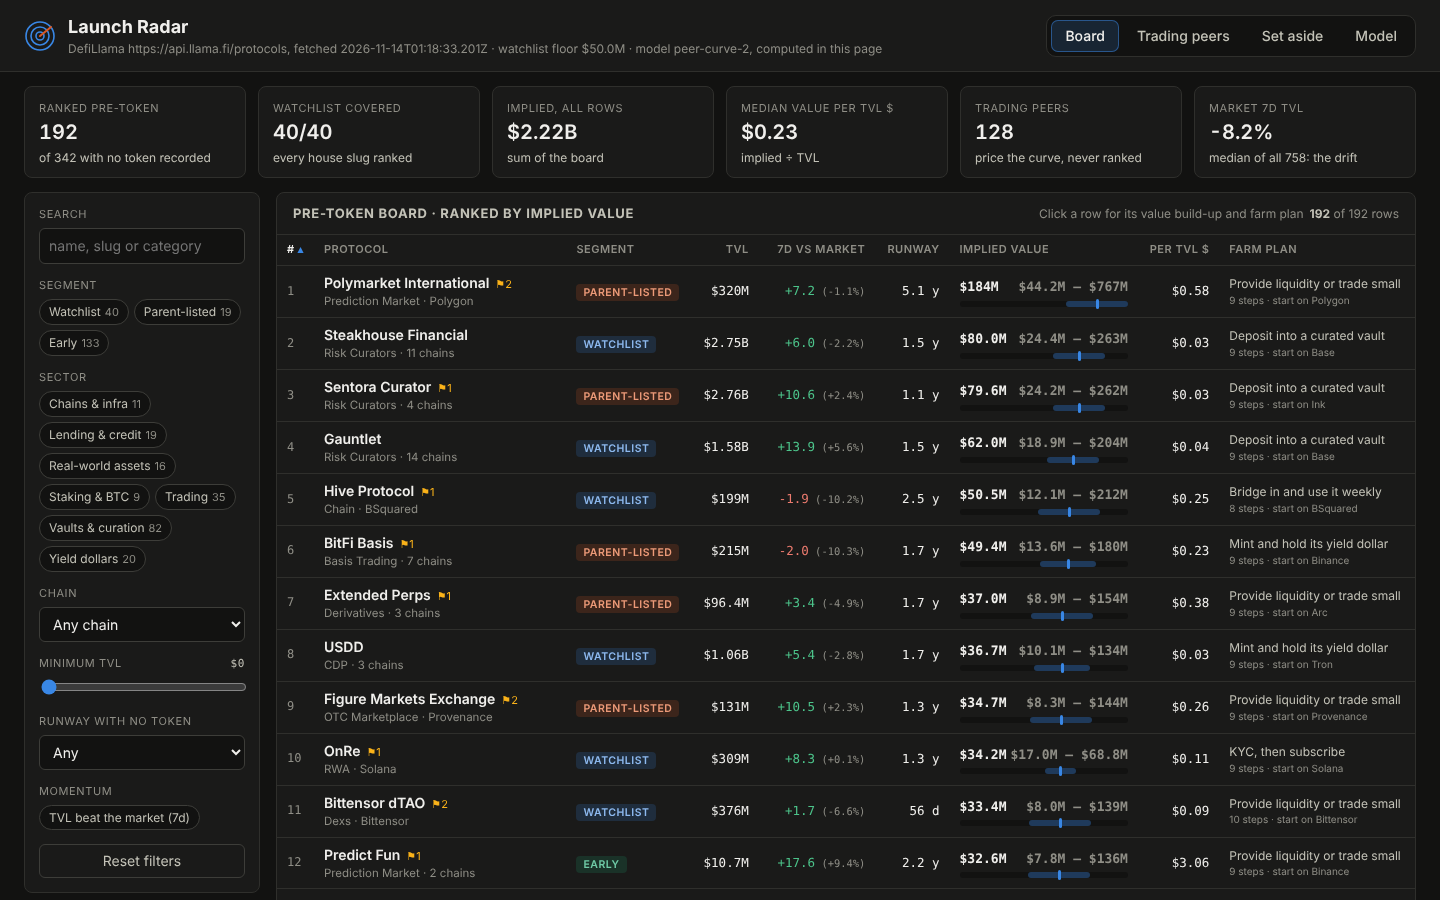
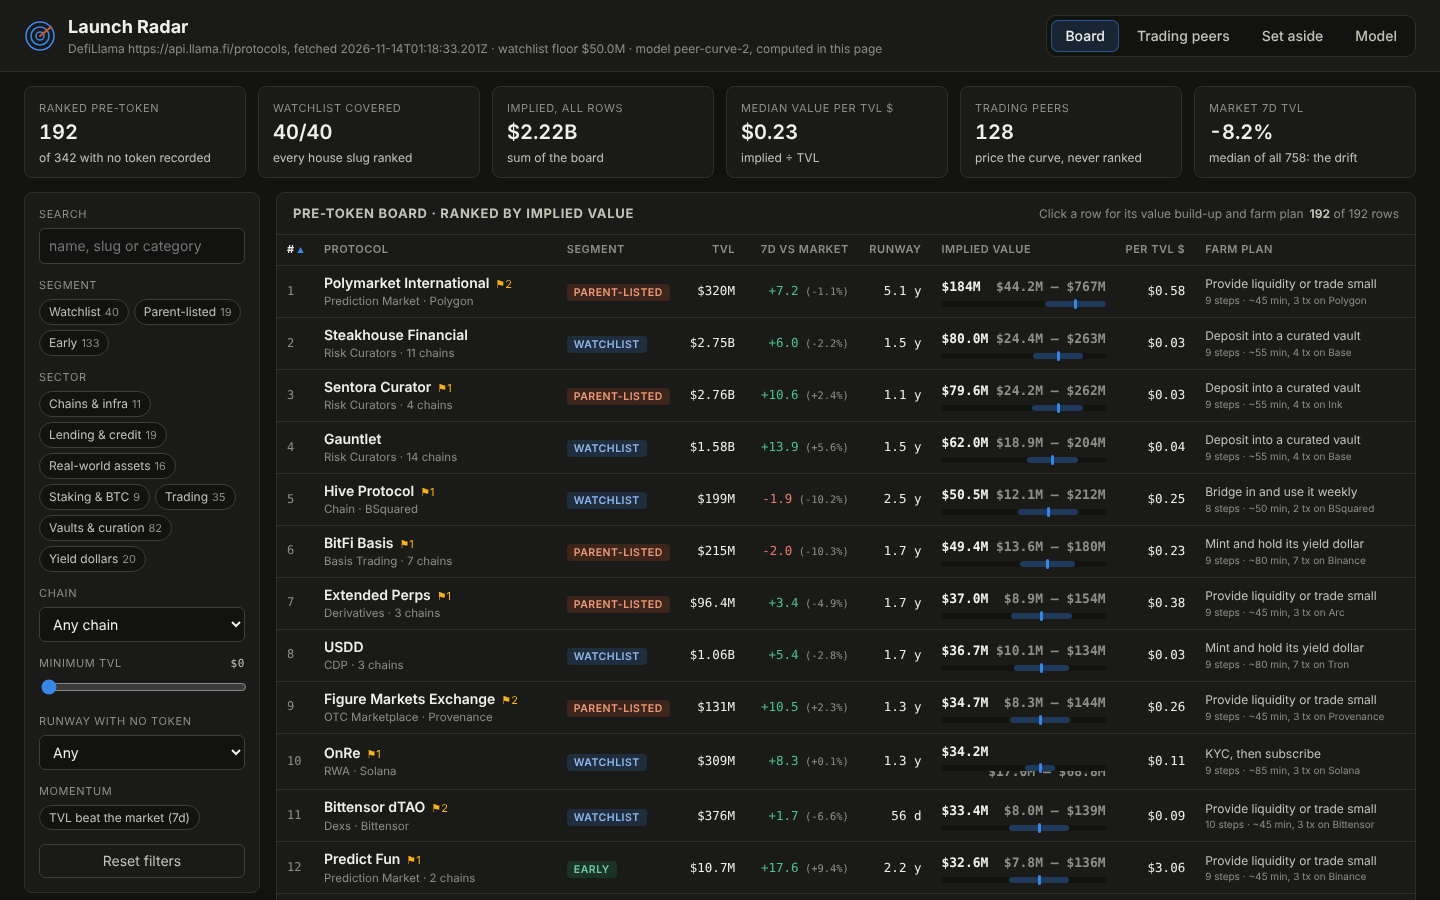
Farm plans carry minutes, transactions and weekly time per step; totals on board and detail
Claude-Session: https://claude.ai/code/session_013aFgNu4RH3Zs2ifyKcjnFN

diff --git a/dashboard/engine.js b/dashboard/engine.js
@@ -144,40 +144,42 @@
   const usd = (n) => (n >= 1e9 ? '$' + (n / 1e9).toFixed(2) + 'B' : n >= 1e6 ? '$' + (n / 1e6).toFixed(n >= 1e8 ? 0 : 1) + 'M' : n >= 1e3 ? '$' + (n / 1e3).toFixed(0) + 'K' : '$' + Math.round(n));
   const pct = (x) => x.toFixed(Math.max(2, 1 - Math.floor(Math.log10(x)))) + '%';
   const gas = (c) => (c === 'Ethereum' ? 'Ethereum mainnet gas (the costliest tier)' : c === 'Bitcoin' ? 'a Bitcoin on-chain fee (varies with mempool load)' : `${c} gas (a low-fee chain)`);
-  const step = (d, cost, time) => ({ do: d, cost, time });
+  // Each step also carries its numbers: minutes to do once, on-chain transactions, minutes a week after.
+  const step = (d, cost, time, min = 0, tx = 0, weekly = 0) => ({ do: d, cost, time, min, tx, weekly });
+  const planTotals = (plan) => plan.reduce((t, s) => ({ min: t.min + s.min, tx: t.tx + s.tx, weekly: t.weekly + s.weekly }), { min: 0, tx: 0, weekly: 0 });
 
   function coreSteps(p, sector, ch) {
     const g = gas(ch), n = p.name;
     switch (sector) {
       case 'Vaults & curation': return [
-        step(`Pick one ${n} vault on ${ch} whose deposit asset you already hold (a stablecoin or ETH-type asset). Read its strategy page: which markets it allocates to, its fee, and whether withdrawals are instant or queued.`, 'free (reading)', '~15 min'),
-        step('Deposit into that vault: approve the asset, then deposit. Start with a test amount, withdraw it once to confirm the exit path works, then deposit the size you chose.', `${g}: 2 transactions to enter, 1 to test the exit`, '~10 min'),
-        step('Check the vault\'s allocation weekly: a curator moves deposits between markets, so the risk you hold changes without a transaction of yours.', 'free', '~5 min a week')];
+        step(`Pick one ${n} vault on ${ch} whose deposit asset you already hold (a stablecoin or ETH-type asset). Read its strategy page: which markets it allocates to, its fee, and whether withdrawals are instant or queued.`, 'free (reading)', '~15 min', 15, 0, 0),
+        step('Deposit into that vault: approve the asset, then deposit. Start with a test amount, withdraw it once to confirm the exit path works, then deposit the size you chose.', `${g}: 2 transactions to enter, 1 to test the exit`, '~10 min', 10, 3, 0),
+        step('Check the vault\'s allocation weekly: a curator moves deposits between markets, so the risk you hold changes without a transaction of yours.', 'free', '~5 min a week', 0, 0, 5)];
       case 'Yield dollars': return [
-        step(`Get the stablecoin ${n} accepts for minting or depositing on ${ch} (its docs list them) and read how redemption works: instant, queued or with a cooldown.`, `a swap fee if you must convert, plus ${g}`, '~15 min'),
-        step(`Mint or deposit into ${n}'s yield-bearing dollar with a test amount, redeem it back once, then deposit your chosen size and keep the receipt token in the same wallet.`, `${g}: about 4 transactions (approve, mint, redeem test, mint)`, '~20 min'),
-        step('If the app lists integrations (lending markets or pools that accept its dollar), use at most one, and only after reading that integration\'s own risk notes.', `${g} per integration step`, '~15 min')];
+        step(`Get the stablecoin ${n} accepts for minting or depositing on ${ch} (its docs list them) and read how redemption works: instant, queued or with a cooldown.`, `a swap fee if you must convert, plus ${g}`, '~15 min', 15, 1, 0),
+        step(`Mint or deposit into ${n}'s yield-bearing dollar with a test amount, redeem it back once, then deposit your chosen size and keep the receipt token in the same wallet.`, `${g}: about 4 transactions (approve, mint, redeem test, mint)`, '~20 min', 20, 4, 0),
+        step('If the app lists integrations (lending markets or pools that accept its dollar), use at most one, and only after reading that integration\'s own risk notes.', `${g} per integration step`, '~15 min', 15, 1, 0)];
       case 'Lending & credit': return [
-        step(`Supply a major asset (a stablecoin or ETH-type asset) to ${n} on ${ch}. Supplying alone carries no liquidation risk on your side; check the market's utilisation before you size it.`, `${g}: approve + supply`, '~10 min'),
-        step('Optionally borrow a small amount against it and keep the loan-to-value far below the liquidation threshold the app shows (a quarter of it is a cautious level). Lending point schemes often count both sides, but a borrow can be liquidated.', `${g}: 1 borrow; interest on the loan`, '~5 min, then a daily glance'),
-        step('Set a price alert on your collateral, or skip borrowing entirely if you cannot watch it.', 'free', '~5 min')];
+        step(`Supply a major asset (a stablecoin or ETH-type asset) to ${n} on ${ch}. Supplying alone carries no liquidation risk on your side; check the market's utilisation before you size it.`, `${g}: approve + supply`, '~10 min', 10, 2, 0),
+        step('Optionally borrow a small amount against it and keep the loan-to-value far below the liquidation threshold the app shows (a quarter of it is a cautious level). Lending point schemes often count both sides, but a borrow can be liquidated.', `${g}: 1 borrow; interest on the loan`, '~5 min, then a daily glance', 5, 1, 0),
+        step('Set a price alert on your collateral, or skip borrowing entirely if you cannot watch it.', 'free', '~5 min', 5, 0, 0)];
       case 'Trading': return [
-        step(`Fund ${n} on ${ch} with a small trading balance. If it is an exchange of pools, add liquidity to its deepest major pair instead of trading: fees accrue to you while you hold the position.`, `${g}: deposit or add-liquidity transactions; impermanent loss on a pool`, '~15 min'),
-        step('If you trade, keep leverage at 2x or less and trade only pairs you would trade anyway: volume-based points rarely pay for fees and slippage on forced trades.', 'trading fees and slippage on each trade', 'a few trades a week'),
-        step('Keep a fee log (date, size, fee) so you can compare what farming costs with anything it later earns.', 'free', '~5 min a week')];
+        step(`Fund ${n} on ${ch} with a small trading balance. If it is an exchange of pools, add liquidity to its deepest major pair instead of trading: fees accrue to you while you hold the position.`, `${g}: deposit or add-liquidity transactions; impermanent loss on a pool`, '~15 min', 15, 2, 0),
+        step('If you trade, keep leverage at 2x or less and trade only pairs you would trade anyway: volume-based points rarely pay for fees and slippage on forced trades.', 'trading fees and slippage on each trade', 'a few trades a week', 0, 0, 15),
+        step('Keep a fee log (date, size, fee) so you can compare what farming costs with anything it later earns.', 'free', '~5 min a week', 0, 0, 5)];
       case 'Real-world assets': return [
-        step(`Check eligibility first: real-world-asset products often require identity checks (KYC), a jurisdiction list and a minimum ticket. Read ${n}'s terms before moving funds.`, 'free; your identity documents if KYC applies', '~30 min, plus any review time'),
-        step(`Subscribe with a test amount on ${ch}, note the redemption schedule (daily, weekly or monthly windows are common), then subscribe your chosen size.`, `${g}; any subscription fee the terms state`, '~20 min'),
-        step('Diarise the next redemption window: capital in an RWA product can be slower to exit than a DeFi pool.', 'free', '~5 min')];
+        step(`Check eligibility first: real-world-asset products often require identity checks (KYC), a jurisdiction list and a minimum ticket. Read ${n}'s terms before moving funds.`, 'free; your identity documents if KYC applies', '~30 min, plus any review time', 30, 0, 0),
+        step(`Subscribe with a test amount on ${ch}, note the redemption schedule (daily, weekly or monthly windows are common), then subscribe your chosen size.`, `${g}; any subscription fee the terms state`, '~20 min', 20, 2, 0),
+        step('Diarise the next redemption window: capital in an RWA product can be slower to exit than a DeFi pool.', 'free', '~5 min', 5, 0, 0)];
       case 'Staking & BTC': return [
-        step(`Stake or deposit the asset ${n} supports on ${ch}. Read the unbonding or withdrawal delay before you deposit: it is how long your capital is locked when you want out.`, `${g}: approve + stake`, '~10 min, plus the unbonding delay to exit'),
-        step('Keep the receipt token in the same wallet; moving it elsewhere can drop you from any points tracking.', 'free', '~2 min')];
+        step(`Stake or deposit the asset ${n} supports on ${ch}. Read the unbonding or withdrawal delay before you deposit: it is how long your capital is locked when you want out.`, `${g}: approve + stake`, '~10 min, plus the unbonding delay to exit', 10, 2, 0),
+        step('Keep the receipt token in the same wallet; moving it elsewhere can drop you from any points tracking.', 'free', '~2 min', 2, 0, 0)];
       case 'Chains & infra': return [
-        step(`Bridge a small balance to ${ch} through the official bridge its docs name, and keep enough of the native gas token for a few weeks of activity.`, `bridge fee plus ${g}`, '~20 min (bridges can take longer to settle)'),
-        step(`Use ${n} for what it is built for (payments, transfers or the apps on it), spread over several weeks rather than one burst: networks tend to look at sustained use, not a single day.`, `${g} per transaction`, '~10 min a week')];
+        step(`Bridge a small balance to ${ch} through the official bridge its docs name, and keep enough of the native gas token for a few weeks of activity.`, `bridge fee plus ${g}`, '~20 min (bridges can take longer to settle)', 20, 1, 0),
+        step(`Use ${n} for what it is built for (payments, transfers or the apps on it), spread over several weeks rather than one burst: networks tend to look at sustained use, not a single day.`, `${g} per transaction`, '~10 min a week', 0, 0, 10)];
       default: return [
-        step(`Read ${n}'s documentation to find its core action (deposit, stake, trade or use), do it once with a test amount on ${ch}, and exit once to prove the way out.`, `${g}: about 3 transactions`, '~20 min'),
-        step('Repeat the core action with your chosen size and keep the position in one wallet.', g, '~10 min')];
+        step(`Read ${n}'s documentation to find its core action (deposit, stake, trade or use), do it once with a test amount on ${ch}, and exit once to prove the way out.`, `${g}: about 3 transactions`, '~20 min', 20, 3, 0),
+        step('Repeat the core action with your chosen size and keep the position in one wallet.', g, '~10 min', 10, 1, 0)];
     }
   }
 
@@ -186,16 +188,16 @@
     const list = p.chains.length > 3 ? `${p.chains.slice(0, 3).join(', ')} and ${p.chains.length - 3} more` : p.chains.join(', ');
     const d7 = p.change_7d === null ? 'by an unreported amount' : (p.change_7d >= 0 ? '+' : '') + p.change_7d.toFixed(1) + '%';
     const plan = [
-      step(`Find ${p.name}'s official app through its DefiLlama listing (slug ${p.slug}) and confirm the domain on the team's own announcement channel before connecting a wallet. Never follow links from replies or DMs.`, 'free', '~10 min'),
-      step(`Use a dedicated wallet that holds only what you plan to deposit. ${p.name} is listed on ${list}; start on ${ch}${p.chains.length > 1 ? ' unless the product you want lives only elsewhere' : ''}.`, `${p.chains.length > 1 ? 'one transfer or bridge' : 'one transfer'} to ${ch} plus ${gas(ch)}`, '~10 min'),
-      step(`Size the position from the snapshot: TVL is ${usd(p.tvl_usd)}, so $1,000 is ${pct((1e3 / p.tvl_usd) * 100)} of the pool and $10,000 is ${pct((1e4 / p.tvl_usd) * 100)}. Choose an amount you can afford to lose entirely.`, 'free (arithmetic)', '~5 min'),
+      step(`Find ${p.name}'s official app through its DefiLlama listing (slug ${p.slug}) and confirm the domain on the team's own announcement channel before connecting a wallet. Never follow links from replies or DMs.`, 'free', '~10 min', 10, 0, 0),
+      step(`Use a dedicated wallet that holds only what you plan to deposit. ${p.name} is listed on ${list}; start on ${ch}${p.chains.length > 1 ? ' unless the product you want lives only elsewhere' : ''}.`, `${p.chains.length > 1 ? 'one transfer or bridge' : 'one transfer'} to ${ch} plus ${gas(ch)}`, '~10 min', 10, 1, 0),
+      step(`Size the position from the snapshot: TVL is ${usd(p.tvl_usd)}, so $1,000 is ${pct((1e3 / p.tvl_usd) * 100)} of the pool and $10,000 is ${pct((1e4 / p.tvl_usd) * 100)}. Choose an amount you can afford to lose entirely.`, 'free (arithmetic)', '~5 min', 5, 0, 0),
       ...coreSteps(p, sector, ch),
-      step(`Log every deposit (date, amount, transaction hash) and check the app for a points or rewards page. Hold for weeks, not days: programs that reward deposits usually weight time as well as size.`, `opportunity cost of the capital while it sits in ${p.name}`, '~5 min a week, for 4 weeks or more'),
-      step(`Set an exit rule now: its TVL moved ${d7} in the snapshot week against a market median of ${market.toFixed(1)}%. Withdraw if TVL falls sharply in a week, the terms change, or an exploit is reported.`, `${gas(ch)} for the withdrawal`, '~5 min'),
-      step('If a token is ever announced, claim only through the official app, read every signature request, and decide your sell-or-hold rule before claiming. Nothing here says a token will launch.', `${gas(ch)} for the claim`, '~10 min'),
+      step(`Log every deposit (date, amount, transaction hash) and check the app for a points or rewards page. Hold for weeks, not days: programs that reward deposits usually weight time as well as size.`, `opportunity cost of the capital while it sits in ${p.name}`, '~5 min a week, for 4 weeks or more', 0, 0, 5),
+      step(`Set an exit rule now: its TVL moved ${d7} in the snapshot week against a market median of ${market.toFixed(1)}%. Withdraw if TVL falls sharply in a week, the terms change, or an exploit is reported.`, `${gas(ch)} for the withdrawal`, '~5 min', 5, 0, 0),
+      step('If a token is ever announced, claim only through the official app, read every signature request, and decide your sell-or-hold rule before claiming. Nothing here says a token will launch.', `${gas(ch)} for the claim`, '~10 min', 0, 0, 0),
     ];
     if (v.runwayDays !== null && v.runwayDays < 120)
-      plan.splice(3, 0, step(`Its DefiLlama record is ${v.runwayDays} days old: young TVL can leave as fast as it came. Start smaller than on an older protocol and add only after a few weeks of stable TVL.`, 'free', 'decide now; revisit in 2 to 4 weeks'));
+      plan.splice(3, 0, step(`Its DefiLlama record is ${v.runwayDays} days old: young TVL can leave as fast as it came. Start smaller than on an older protocol and add only after a few weeks of stable TVL.`, 'free', 'decide now; revisit in 2 to 4 weeks', 0, 0, 0));
     return plan;
   }
   const stepText = (s) => `${s.do} Cost: ${s.cost}. Time: ${s.time}.`.slice(0, 600).trim();
@@ -246,7 +248,7 @@
     return { M, fit, rows, excluded, peers: fit.peers };
   }
 
-  const api = { MODEL, SECTORS, build, sectorOf, ruleExclusion, families, fitPeers, value, farmPlan, stepText, usd };
+  const api = { MODEL, SECTORS, build, planTotals, sectorOf, ruleExclusion, families, fitPeers, value, farmPlan, stepText, usd };
   if (typeof module === 'object' && module.exports) module.exports = api;
   else root.Radar = api;
 })(typeof globalThis === 'object' ? globalThis : this);

diff --git a/dashboard/app.js b/dashboard/app.js
@@ -28,6 +28,7 @@
   const seg = (s) => `<span class="seg ${s}" title="${esc(SEG_WHY[s])}">${SEG[s]}</span>`;
   const startOn = (r) => r.chains.find((c) => c !== 'Ethereum' && c !== 'Bitcoin') || r.chains[0];
   const count = (f) => ROWS.filter(f).length;
+  const tot = (r) => (r.tot ||= window.Radar.planTotals(r.plan));
 
   // ------------------------------------------------------------ header and KPIs
   const medPer = ROWS.map((r) => r.perTvl).sort((a, b) => a - b)[ROWS.length >> 1];
@@ -147,7 +148,7 @@
       <td class="r num">${ago(r.runwayDays)}</td>
       <td class="vcell"><span class="num">${usd(r.implied)}</span><small class="mut num">${usd(r.low)} – ${usd(r.high)}</small><div class="band"><i style="left:${pos(r.low)}%;width:${(pos(r.high) - pos(r.low)).toFixed(1)}%"></i><b style="left:calc(${pos(r.implied)}% - 1px)"></b></div></td>
       <td class="r num">$${r.perTvl.toFixed(2)}</td>
-      <td class="plan1">${CORE[r.sector]}<small>${r.plan.length} steps · start on ${esc(startOn(r))}</small></td></tr>`;
+      <td class="plan1">${CORE[r.sector]}<small>${r.plan.length} steps · ~${tot(r).min} min, ${tot(r).tx} tx on ${esc(startOn(r))}</small></td></tr>`;
   }
 
   // ------------------------------------------------------------ one protocol
@@ -179,7 +180,7 @@
         <section class="panel"><h2>Where it sits on the peer curve</h2>${scatter(r)}</section>
       </div>
       <div class="col">
-        <section class="panel"><h2>Farm plan · ${r.plan.length} steps, each with its cost and time</h2><div class="pad"><ol class="steps">${r.plan.map((s) => `<li><div><p>${esc(s.do)}</p><div class="meta"><span><b>Cost</b>${esc(s.cost)}</span><span><b>Time</b>${esc(s.time)}</span></div></div></li>`).join('')}</ol></div></section>
+        <section class="panel"><h2>Farm plan · ${r.plan.length} steps, each with its cost and time</h2><div class="totals"><div><b>~${tot(r).min} min</b><span>to set up, once</span></div><div><b>${tot(r).tx}</b><span>transactions on ${esc(startOn(r))}</span></div><div><b>~${tot(r).weekly} min</b><span>a week while you hold</span></div><div><b>${r.chains.length}</b><span>chain${r.chains.length > 1 ? 's' : ''} listed</span></div></div><div class="pad"><ol class="steps">${r.plan.map((s) => `<li><div><p>${esc(s.do)}</p><div class="meta"><span><b>Cost</b>${esc(s.cost)}</span><span><b>Time</b>${esc(s.time)}</span></div></div></li>`).join('')}</ol></div></section>
         <section class="panel"><h2>Flags from the snapshot</h2><div class="pad">${r.flags.length ? `<ul class="flags">${r.flags.map((f) => `<li>${esc(f)}</li>`).join('')}</ul>` : '<p class="mut">No flags: dated, reported and multi-chain.</p>'}${r.siblings.length ? `<p class="mut">Same-name protocols in the snapshot: ${r.siblings.map(esc).join(', ')}.</p>` : ''}</div></section>
         <section class="panel"><h2>Illustrative arithmetic</h2><div class="pad calc">
           <div><label class="mut" for="cd">Your deposit (USD)</label><input id="cd" type="number" min="0" step="100" value="1000"></div>

diff --git a/dashboard/app.css b/dashboard/app.css
@@ -121,6 +121,10 @@ tr.me td { background: rgba(250, 178, 25, 0.07); }
 .meta b { color: var(--muted); font-weight: 500; margin-right: 5px; }
 .flags { margin: 0 0 8px; padding-left: 18px; color: var(--text-2); }
 .note { font-size: 12px; color: var(--muted); border-left: 2px solid var(--warn); padding: 6px 10px; background: var(--bg); border-radius: 0 6px 6px 0; grid-column: 1 / -1; margin: 0; }
+.totals { display: grid; grid-template-columns: repeat(4, 1fr); gap: 1px; background: var(--line); border-bottom: 1px solid var(--line); }
+.totals div { background: var(--surface); padding: 8px 14px; }
+.totals b { display: block; font-size: 16px; font-variant-numeric: tabular-nums; }
+.totals span { color: var(--muted); font-size: 11px; }
 .calc { display: grid; grid-template-columns: 1fr 1fr; gap: 10px; align-items: end; }
 .calc output { grid-column: 1 / -1; font-size: 13px; color: var(--text-2); }
 

diff --git a/main.ts b/main.ts
@@ -49,7 +49,7 @@ interface Row {
   low: number;
   high: number;
   perTvl: number;
-  plan: { do: string; cost: string; time: string }[];
+  plan: { do: string; cost: string; time: string; min: number; tx: number; weekly: number }[];
 }
 
 const here = fileURLToPath(new URL('.', import.meta.url));
@@ -85,6 +85,9 @@ const board = radar.rows.map((r) => ({
   implied_low_usd: r.low,
   implied_high_usd: r.high,
   value_per_tvl_dollar: Number(r.perTvl.toFixed(4)),
+  farm_setup_minutes: engine.planTotals(r.plan).min as number,
+  farm_setup_transactions: engine.planTotals(r.plan).tx as number,
+  farm_weekly_minutes: engine.planTotals(r.plan).weekly as number,
 }));
 
 /** The gate's board checks, run before anything is written: a refused board never leaves this program. */
